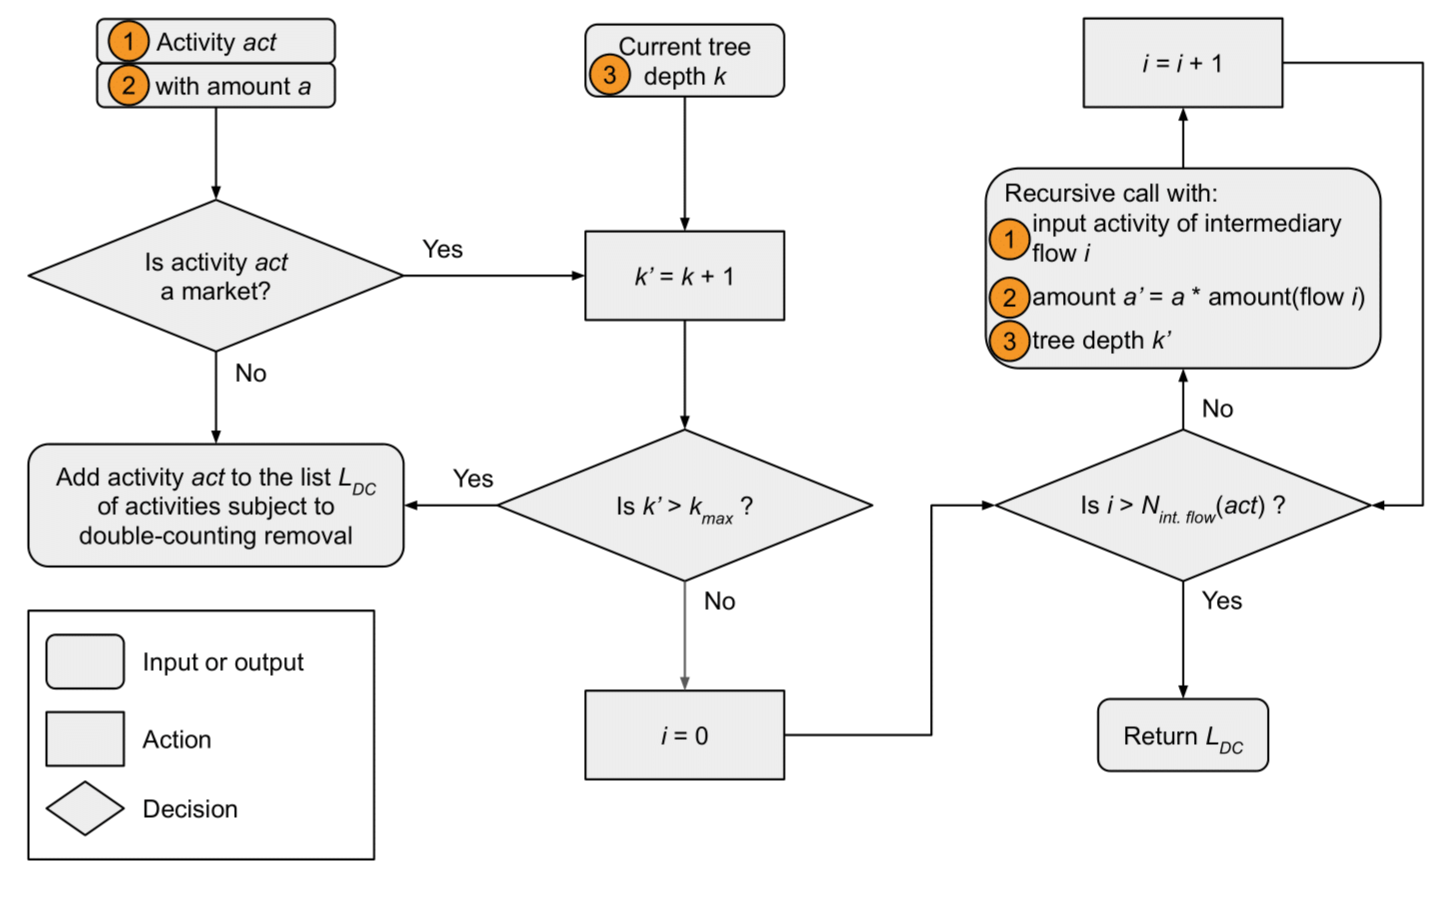
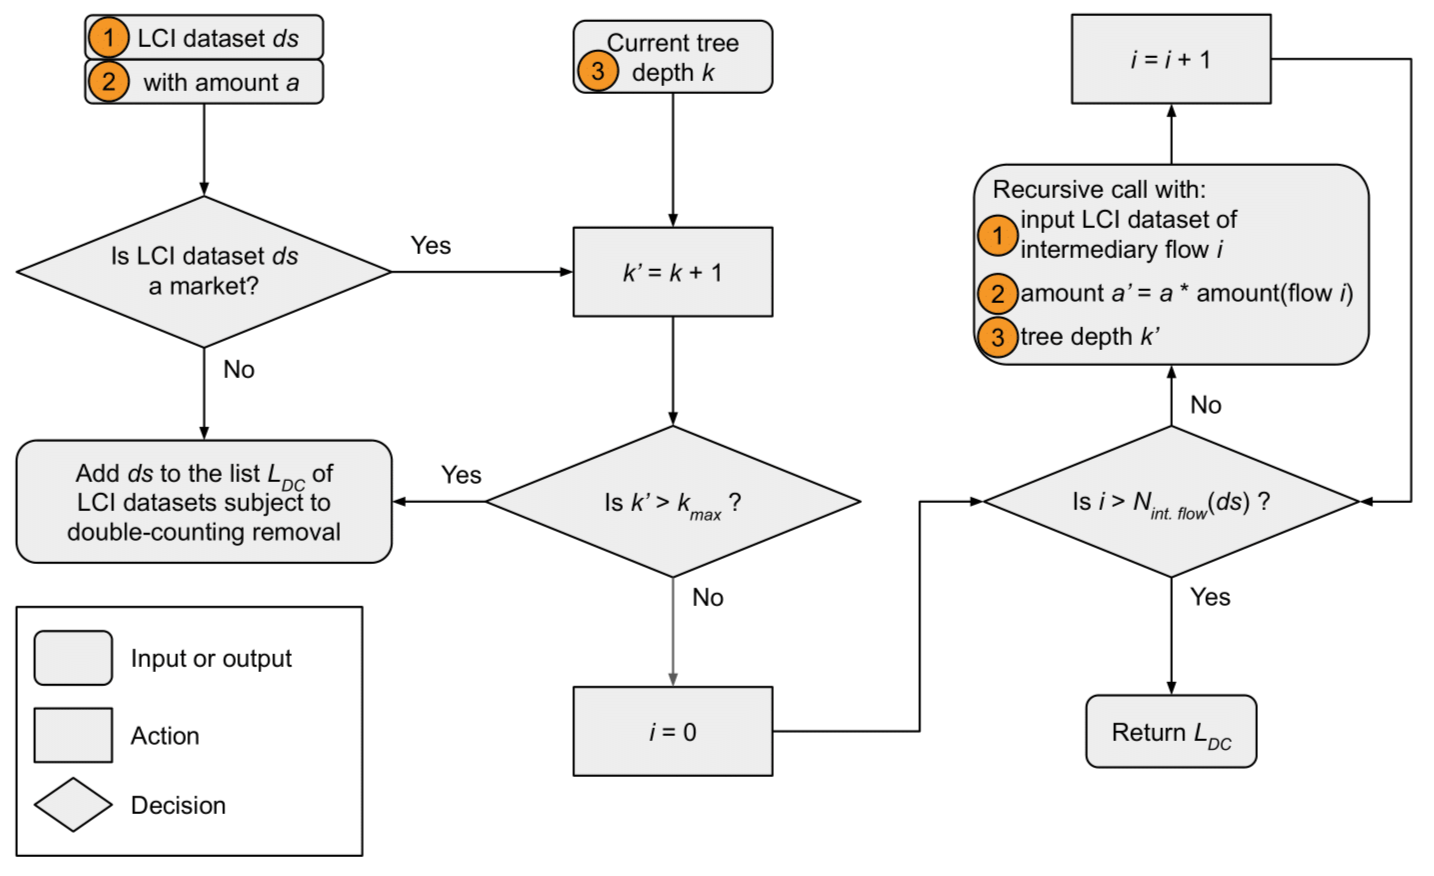
minor corrections

diff --git a/paper.md b/paper.md
@@ -43,17 +43,17 @@ enabling a more holistic sustainability assessment.
 # Statement of need
 ESM aims to support decision-makers in designing and assessing energy transition scenarios. In this work, we focus on 
 bottom-up models, which describe energy technologies with a high level of technical details [@herbst2012].
-Most ESM integrate carbon direct emissions in their modelling framework to propose and assess climate change mitigation scenarios.
-However, the environmental assessment of energy transition scenarios should not be limited the operation phase and 
-to carbon emissions [@hellweg2023].
+Most ESM integrate direct carbon emissions in their modelling framework to propose and assess climate change mitigation scenarios.
+However, the environmental assessment of energy transition scenarios should not be limited to the operation phase and 
+to direct carbon emissions [@hellweg2023].
 For instance, the United Nations highlighted three major environmental challenges that humanity is currently facing: climate change, 
 biodiversity loss, and air pollution [@unfccc2022]. Sustainability assessment methods are needed to integrate a broader 
-set of environmental impact categories, including as water use, land use, human toxicity, mineral resource use, etc.
+set of environmental impact categories, including water use, land use, human toxicity, mineral resource use, etc.
 It is essential to enlarge the environmental assessment of energy transition scenarios while keeping 
 comparable, robust and transparent methods [@hellweg2023].
 
 LCA is a methodology that assesses the environmental impacts of products and services throughout their life-cycle. 
-It aims to be a comprehensive environmental assessment as it considers complete value chains and a wide set of 
+LCA aims to be a comprehensive environmental assessment as it considers complete value chains and a wide set of 
 environmental impact categories.
 
 ESM can be coupled to LCA with varying integration levels. Ex-post analyses are the most common approach, where 
@@ -62,27 +62,28 @@ energy transition scenarios generated by ESM are assessed with LCA as a post-pro
 ESM projections, thus leading to iterative feedback loops between the ESM and the LCA model. 
 For instance, @xu2020 computed environmental impacts of the energy mix obtained from an ESM, and then adjusted energy 
 transition pathways when policy targets were violated. 
-For LCA indicators to be used actively in ESM, and thus in transition scenarios design, hard-linked 
+For LCA indicators to be used actively in ESM, and thus in the design of transition scenarios, hard-linked 
 coupling is required. This denotes the endogenous integration of LCA indicators in ESM.
 Several studies have endogenously integrated LCA indicators in ESM [@rauner2017; @vandepaer2020; @algunaibet2019; @reinert2022], thus 
 paving the way for multi-objective optimization. @vandepaer2020 compared the use of the $\epsilon$-constraint 
-method and the normalization and weighting method to integrate LCA indicators in a bottom-up optimization model. 
+method [@mavrotas2009] and the normalization and weighting method to integrate LCA indicators in a bottom-up optimization model. 
 Alternatively, @algunaibet2019 monetized environmental impacts in order to sum them with direct and indirect costs 
 within an economic objective function.
 
 However, these studies combining LCA and ESM remain specific to a single ESM in practice, which makes them difficult 
-to reproduce when another ESM is used. This complicates the re-application and comparability of these approaches. 
+to reproduce with another ESM. This complicates the re-application and comparability of these approaches. 
 
 Recently, @sacchi2024 presented `pathways`, a Python package based on the `brightway` framework [@mutel2017] that 
-assesses energy transition scenarios with LCA. `pathways` requires an energy transition scenario generated by an ESM or Integrated Assessment 
-Model (IAM), prospective LCI databases (which are typically generated using `premise` [@sacchi2022], a Python package that 
-generates prospective versions of _ecoinvent_ using IAM projections) and a mapping 
-between ESM/IAM scenario variables and LCI datasets. As an output, it computes the environmental impacts of transition 
+performs ex-post assessments of energy transition scenarios with LCA. `pathways` requires an energy transition 
+scenario generated by an ESM or Integrated Assessment 
+Model (IAM), prospective Life-Cycle Inventory (LCI) databases (which are typically generated using `premise` [@sacchi2022], 
+a Python package that generates prospective versions of _ecoinvent_ using IAM projections) and a mapping 
+between ESM/IAM scenario variables and LCI datasets. As an output, `pathways` computes the environmental impacts of transition 
 scenarios and provides insights about their trade-offs and hot spots. `pathways` allows a transparent and reproducible 
 assessment of energy transition scenarios. ESM/IAM results can be further included in a prospective LCI database using `premise`
 custom scenarios [@sacchi2022], thus making soft-linked coupling possible.
 However, this framework is limited to ex-post analyses and does not allow for the endogenous integration of LCA 
-indicators within ESM or IAM, thus significantly limiting energy modellers ability to shape transition scenarios 
+indicators within ESM or IAM, thus significantly limiting energy modellers' ability to shape transition scenarios 
 with LCA results.
 
 `mescal` aims to address this limitation, by enhancing the reproducibility and transparency of hard-linked coupling 
@@ -91,8 +92,8 @@ sustainability metrics.
 
 # Description
 Starting from a mapping between ESM technologies/resources and LCI datasets from a LCI database, `mescal` performs 
-the LCI and LCIA steps of LCA to pre-compute LCA impact scores that are then integrated in the ESM (\autoref{fig:workflow}). 
-Pre-computed LCA impact scores are used to compute to total environmental impact of the modelled energy system 
+the LCI and Life-Cycle Impact Assessment (LCIA) steps of LCA to pre-compute LCA impact scores that are then integrated in the ESM (\autoref{fig:workflow}). 
+Pre-computed LCA impact scores are used to compute the total environmental impact of the modelled energy system 
 configuration.
 
 $$
@@ -102,12 +103,12 @@ $$
 \end{split}
 $$
 
-Before the LCI and LCIA steps, `mescal` modifies the LCI datasets intermediary and elementary flows to regionalize, 
+Before the LCI and LCIA steps, `mescal` modifies the intermediary and elementary flows of the LCI datasets to regionalize, 
 prevent double-counting, and adjust LCI datasets efficiencies (\autoref{fig:workflow}). 
 After the LCA impact scores computation, `mescal` accounts for differences between the ESM and LCI database (i.e., 
 lifetime, physical units) and normalizes the impact scores (\autoref{fig:workflow}).
 
-`mescal` operates this set of systematic transformations and computations based on the `brightway` 
+`mescal` performs these systematic transformations and computations based on the `brightway` 
 framework [@mutel2017] and the `wurst` Python package, which are tools to perform LCA modelling and calculation 
 within a Python environment.
 
@@ -129,9 +130,9 @@ Classification (CPC) categories [@unitednations2015].
 
 In addition, `mescal` can use several optional CSV files, including:
 
-- `Lifetime.csv`: the lifetime of the ESM technologies in the ESM and in the LCI database.
+- `Lifetime.csv`: the lifetime of the technologies in the ESM and in their respective infrastructure LCI dataset.
 
-- `Efficiency.csv`: the list of ESM technologies and their input fuel type for which efficiency adjustment will be 
+- `Efficiency.csv`: the list of ESM technologies and their input fuel types for which efficiency adjustment will be 
 performed.
 
 - `Ranking locations.csv`: the ranking of preferred locations available in the LCI database with respect to the ESM 
@@ -146,7 +147,7 @@ datasets (`Mapping.csv`).
 Technologies are typically mapped with two LCI datasets: 1) an operation LCI dataset, which encompasses 
 the use phase of the technology's life-cycle, and 2) an infrastructure LCI dataset, which encompasses the 
 construction and dismantling phases of the technology's life-cycle. 
-ESM resources (which can also be seen as energy imports) are technology inputs. 
+ESM resources (which can also be seen as energy imports) are energy technologies' inputs. 
 They are typically mapped with one operation LCI dataset, which encompasses the resource extraction, 
 processing, and transportation phases. Regarding LCI databases, `mescal` is suited for any version of the 
 _ecoinvent_ database [@wernet2016] and any prospective LCI database generated via `premise` [@sacchi2022].
@@ -156,7 +157,7 @@ To make LCI datasets more specific and relevant to the ESM geographical scope, t
 be regionalized. Inventory regionalization refers to the enhancement of the geographic representativeness of the 
 inventory data, which is achieved by adjusting the type and quantity of intermediary and elementary flows 
 [@patouillard2018]. `mescal` regionalizes the foreground inventory by selecting LCI datasets with the most appropriate 
-geographical tag for a given infrastructure or operation requirement. This selection is supported by the ranking of the most suitable 
+geographical tag for a given infrastructure or operation requirement. This selection is supported by the ranking of most suitable 
 locations in the LCI database, with respect to the ESM geographical context, `Ranking locations.csv` (\autoref{fig:flowchart_regionalization}). 
 Foreground regionalization is performed for intermediary flows, and also for elementary flows if the LCI database 
 is spatialized, i.e., if a geographic location has been attributed to elementary flows [@patouillard2018]. 
@@ -181,20 +182,21 @@ flow of the heat pump operation LCI dataset would be set to zero.
 ![Flowchart of the double-counting removal process. The attribution of CPC categories to activities that do not have 
 one is based on their reference product.\label{fig:flowchart_double_counting}](docs/pics/double_counting_flowchart.png)
 
-In the case of market-type LCI datasets, the flows to be nullified are contained in the background inventory. 
-`mescal` determines the set of LCI datasets on which the double-counting removal process should be applied via a 
+In the case of market-type LCI datasets, the foreground inventory contains no direct exchanges and thus the flows to be 
+nullified are contained in the background inventory. 
+`mescal` identifies the set of LCI datasets on which the double-counting removal process should be applied via a 
 recursive algorithm exploring the market-type datasets backgrounds (\autoref{fig:flowchart_background_search}).
 
-![Flowchart of the background search process. $k_{max}$ is the maximum authorized tree depth. $N_{int. flow}(act)$ is the 
-number of intermediary flows of the activity $act$.\label{fig:flowchart_background_search}](docs/pics/background_search_flowchart.png)
+![Flowchart of the background search process. $k_{max}$ is the maximum authorized tree depth. $N_{int. flow}(ds)$ is the 
+number of intermediary flows of the LCI dataset $ds$.\label{fig:flowchart_background_search}](docs/pics/background_search_flowchart.png)
 
 ## ESM and LCI database harmonization
 `mescal` adjusts LCI datasets and specific impact scores to account for differences between the ESM and LCI database.
 Sets, parameters, and variables are defined in \autoref{tab:sets}, \autoref{tab:parameters}, and \autoref{tab:variables}.
 
 - **Technologies lifetime**: Infrastructure LCA indicators correspond to annual impacts, thus `mescal` adjusts the 
-infrastructure specific impact scores to integrate the difference of lifetime between ESM technologies and their 
-infrastructure LCI datasets. The infrastructure specific impact score ($lcia_{infra}$) is multiplied by the ratio 
+infrastructure specific impact scores to integrate the difference of lifetime between ESM technologies and their respective 
+infrastructure LCI datasets. `mescal` multiplies the infrastructure specific impact score ($lcia_{infra}$) with the ratio 
 between the ESM lifetime ($n_{ESM}$) and the LCI dataset lifetime ($n_{LCI}$) (`Lifetime.csv`) to ensure that the annual impact in the 
 ESM is computed with the LCI dataset lifetime, thus resulting in the adjusted infrastructure specific impact score 
 ($lcia_{infra}^{adj}$ in Eq. (1)).
@@ -212,17 +214,19 @@ of all elementary flows in the operation LCI datasets foregrounds are adjusted u
 the LCI dataset ($\eta_{LCI}$) and the ESM ($\eta_{ESM}$) efficiencies, thus resulting in adjusted direct emissions 
 amounts ($q^{adj}$ in Eq. (2)). 
 The efficiency of the operation LCI dataset ($\eta_{LCI}$) is computed using the quantity of fuel that was removed during the 
-double-counting removal step, while the efficiency of the ESM technology ($\eta_{ESM}$) is computed from `ESM.csv`. This transformation 
-is applied to a list of relevant ESM technologies (`Efficiency.csv`), e.g., technologies that involve a combustion process.
+double-counting removal step, while the efficiency of the ESM technology ($\eta_{ESM}$) is computed from `ESM.csv`. 
+`mescal` applies this transformation to a list of relevant ESM technologies (`Efficiency.csv`), e.g., technologies that 
+involve a combustion process.
 
 $$
 q^{adj}(ef, j) = q(ef, j) \cdot \frac{\eta_{LCI}(j)}{\eta_{ESM}(j)} \quad \forall (ef, j) \in EF \setminus \{land, energy\} \times TECH \quad \text{(2)}
 $$
 
 - **Physical units**: The product flows may be expressed in different units in the ESM and the LCI 
-database. Specific impact scores are multiplied by a conversion factor, which converts the specific impact 
-scores physical unit from [impact category unit / LCI output unit] to [impact category unit / ESM output unit]. 
-Conversion factors account for LCI datasets assumptions such as capacity factors or vehicle load factors (`Conversion factors.csv`).
+database. `mescal` resolves this issue by multiplying specific impact scores with a conversion factor, which converts 
+the specific impact scores physical unit from [impact category unit / LCI output unit] to [impact category unit / ESM output unit]. 
+Conversion factors account for LCI datasets assumptions such as annual production, capacity factors or vehicle load 
+factors (`Conversion factors.csv`).
 
 - **Generation of new LCI datasets**: `mescal` generates new LCI datasets by operating modifications on existing ones, 
 to enhance their alignment with the corresponding ESM technology. For example, biodiesel-fuelled mobility LCI datasets
@@ -232,12 +236,12 @@ LCI datasets, while the fossil diesel input is set to zero during the double-cou
 ## Life-Cycle Impact Assessment
 `mescal` computes LCA impact scores using any set of impact assessment methods, e.g., IMPACT World+ [@bulle2019], ReCiPe 
 [@huijbregts2017] or Environmental Footprint (EF) [@europeancommission.jointresearchcentre.2018]. 
-Alternatively, a module computing only direct emissions has been developed to ease the comparison between territorial 
+Alternatively, `mescal` has a module computing only direct emissions that aims to ease the comparison between territorial 
 emissions and life-cycle emissions. This module sets all foreground intermediary flows to zero, thus only considering
 direct emissions for the impact assessment. The results from the background search process 
 (\autoref{fig:flowchart_background_search}) obtained during the double-counting removal step are re-used to determine 
 direct emissions of market-type LCI datasets. 
-The equivalence between territorial emissions and direct emissions is based on the assumption that all modeled direct 
+The equivalence between territorial emissions and direct emissions is based on the assumption that all modelled direct 
 emissions are located in the geography of interest. 
 
 ## Normalization of impact scores 
@@ -246,10 +250,12 @@ normalization is beneficial in facilitating the solver's convergence, given that
 significant discrepancies in magnitude across impact categories and technologies. By aligning all metrics within a 
 comparable order of magnitude, numerical stability is improved in the solving process.
 `mescal` performs normalization using the maximum indicator ($lcia_{max}$ in Eq. (3)) of each impact category.
-`mescal` can control the difference in order of magnitude between the highest and lowest impact scores of an impact 
+
+`mescal` can control the difference in order of magnitude between the highest and lowest specific impact scores of each impact 
 category, to eventually facilitate the solver convergence. To achieve this, `mescal` sets to zero all normalized
 specific impact scores ($lcia_{type}^{norm}$ in Eq. (6)) that are below a threshold $\epsilon$ (in absolute values).
 This feature can be deactivated by setting $\epsilon$ to zero.
+
 Also, considerable discrepancies in magnitude may be observed between infrastructure and operation specific impact scores 
 within the same impact category, as these are not expressed with the same physical unit (e.g., kg CO$_2$-eq/kW for 
 infrastructure and kg CO$_2$-eq/kWh for operation). This might result in a significant fraction of specific impact scores
@@ -257,7 +263,7 @@ being set to zero after comparison with the threshold $\epsilon$.
 To be able to address this issue, `mescal` applies a scaling factor ($lcia_{op,max}(k) / lcia_{infra,max}(k)$ in Eq. (4))
 to infrastructure specific impact scores, to ensure that both the maximum infrastructure and operation indicators are normalized to 1. 
 `mescal` then applies the scaling factor inverse to normalized infrastructure indicators (Eq. (6)), 
-in order to keep the magnitude difference between operation and infrastructure specific impact scores in ESM. 
+in order to keep the magnitude difference between operation and infrastructure specific impact scores in the ESM. 
 
 $$
 \begin{split}
@@ -290,12 +296,12 @@ $$
 The following set of modelling equations is included in ESM.
 The environmental objective ${LCIA_{tot}}$ is defined as the sum of the impact scores of the infrastructure, operation, 
 and resource parts (Eq. (7)).
-The infrastructure impact score is derived from the normalized specific impact ($lcia^{norm}_{infra}$), which is computed 
-from the infrastructure LCI dataset. The normalized specific impact score is divided by the technology's lifetime in the ESM 
-($n_{ESM}$), and scaled with the technology's installed capacity (${F}$) (Eq. (8)). 
+The infrastructure impact score is derived from the normalized specific impacts ($lcia^{norm}_{infra}$), which are computed 
+from the infrastructure LCI datasets. The normalized specific impact scores are divided by the technologies' lifetime in the ESM 
+($n_{ESM}$), and scaled with the technologies' installed capacity (${F}$) (Eq. (8)). 
 The operation and resource impact scores are respectively derived from the operation and resource normalized specific 
-impacts scores ($lcia^{norm}_{op}$), which are respectively computed from the operation and resource LCI datasets, and scaled 
-with the annual operation (${F_t} \times t_{op}$) (Eq. (9)).
+impact scores ($lcia^{norm}_{op}$), which are respectively computed from the operation and resource LCI datasets, and scaled 
+with the annual operations (${F_t} \times t_{op}$) (Eq. (9)).
 
 $$
 \begin{split}
@@ -315,7 +321,7 @@ $$
 ## Integrating ESM results in the LCI database
 In order to update the LCI database with the ESM results, `mescal` overwrites the relevant LCI datasets, 
 i.e., LCI datasets that are in the sectoral and geographical scope of the ESM, such as markets for electricity, heat or 
-transport. The activities composing the market and their respective shares are determined using the ESM annual 
+transport. The processes composing the markets and their respective shares are determined using the ESM annual 
 operation results and the `Mapping.csv` file.
 
 ## Example notebook
@@ -324,16 +330,18 @@ An [example notebook](https://github.com/matthieu-str/mescal/blob/master/example
 
 # Impact
 `mescal` offers a systematic methodology to hard-link ESM with LCA, thus enabling the integration of environmental
-constraints and objectives in ESM, and thus a flexible design and environmental assessment of energy transition scenarios. 
+constraints and objectives in ESM, and the design and environmental assessment of energy transition scenarios
+based on LCA indicators. 
 The use of `mescal` ensures a transparent, reproducible, and thus comparable integration of LCA indicators in ESM.
 The use of LCA makes sustainability assessments of energy modellers more holistic, thus highlighting the potential trade-offs, 
 benefits, and adverse side effects of energy transition pathways among the environmental and economic performance indicators.
-`mescal` is aimed to be used by energy modellers who might not be LCA experts but want to enlarge the set of environmental 
+`mescal` is intended to be used by energy modellers who might not be LCA experts but want to enlarge the set of environmental 
 indicators in their model in a transparent and reproducible way.
-Updating the LCI database background inventory with ESM results paves the way for using `mescal` with both snapshot and 
-myopic pathway ESM.
+
+Updating the LCI database with ESM results paves the way for using `mescal` with both snapshot and myopic pathway ESM
+within iterative procedures.
 Snapshot ESM evaluate the energy system configuration and operation over a timespan, during which the energy system 
-remains unchanged [@codinagirones2015]. An iterative feedback loop can be established between the ESM and `mescal` 
+remains unchanged [@codinagirones2015]. An iterative feedback loop can be established between ESM and `mescal` 
 to adjust LCA pre-computed impact scores with the latest ESM results. Convergence is reached when LCA impact scores are 
 stable between two consecutive iterations, thus providing a consistent environmental assessment of the energy system
 (i.e., without relying on the LCI database assumptions regarding the energy system under study). 
@@ -341,7 +349,7 @@ Myopic pathway ESM divide the transition period into a sequence of consecutive o
 `mescal` can be used through a 3-step iterative procedure: 1) run the ESM at time-step $t$, 2) update the LCI database 
 with the ESM results at time-step $t$, and 3) update the LCA indicators with the updated LCI database for time-step $t+1$.
 
-As an example, `mescal` methodology has been applied by @schnidrig2024 with the _EnergyScope_ model [@moret2017] 
+As an example, `mescal` methodology has been applied by @schnidrig2024 with _EnergyScope_ [@moret2017] 
 to analyse environmental-economic trade-offs in Swiss energy system transitions.
 
 # Conclusion
